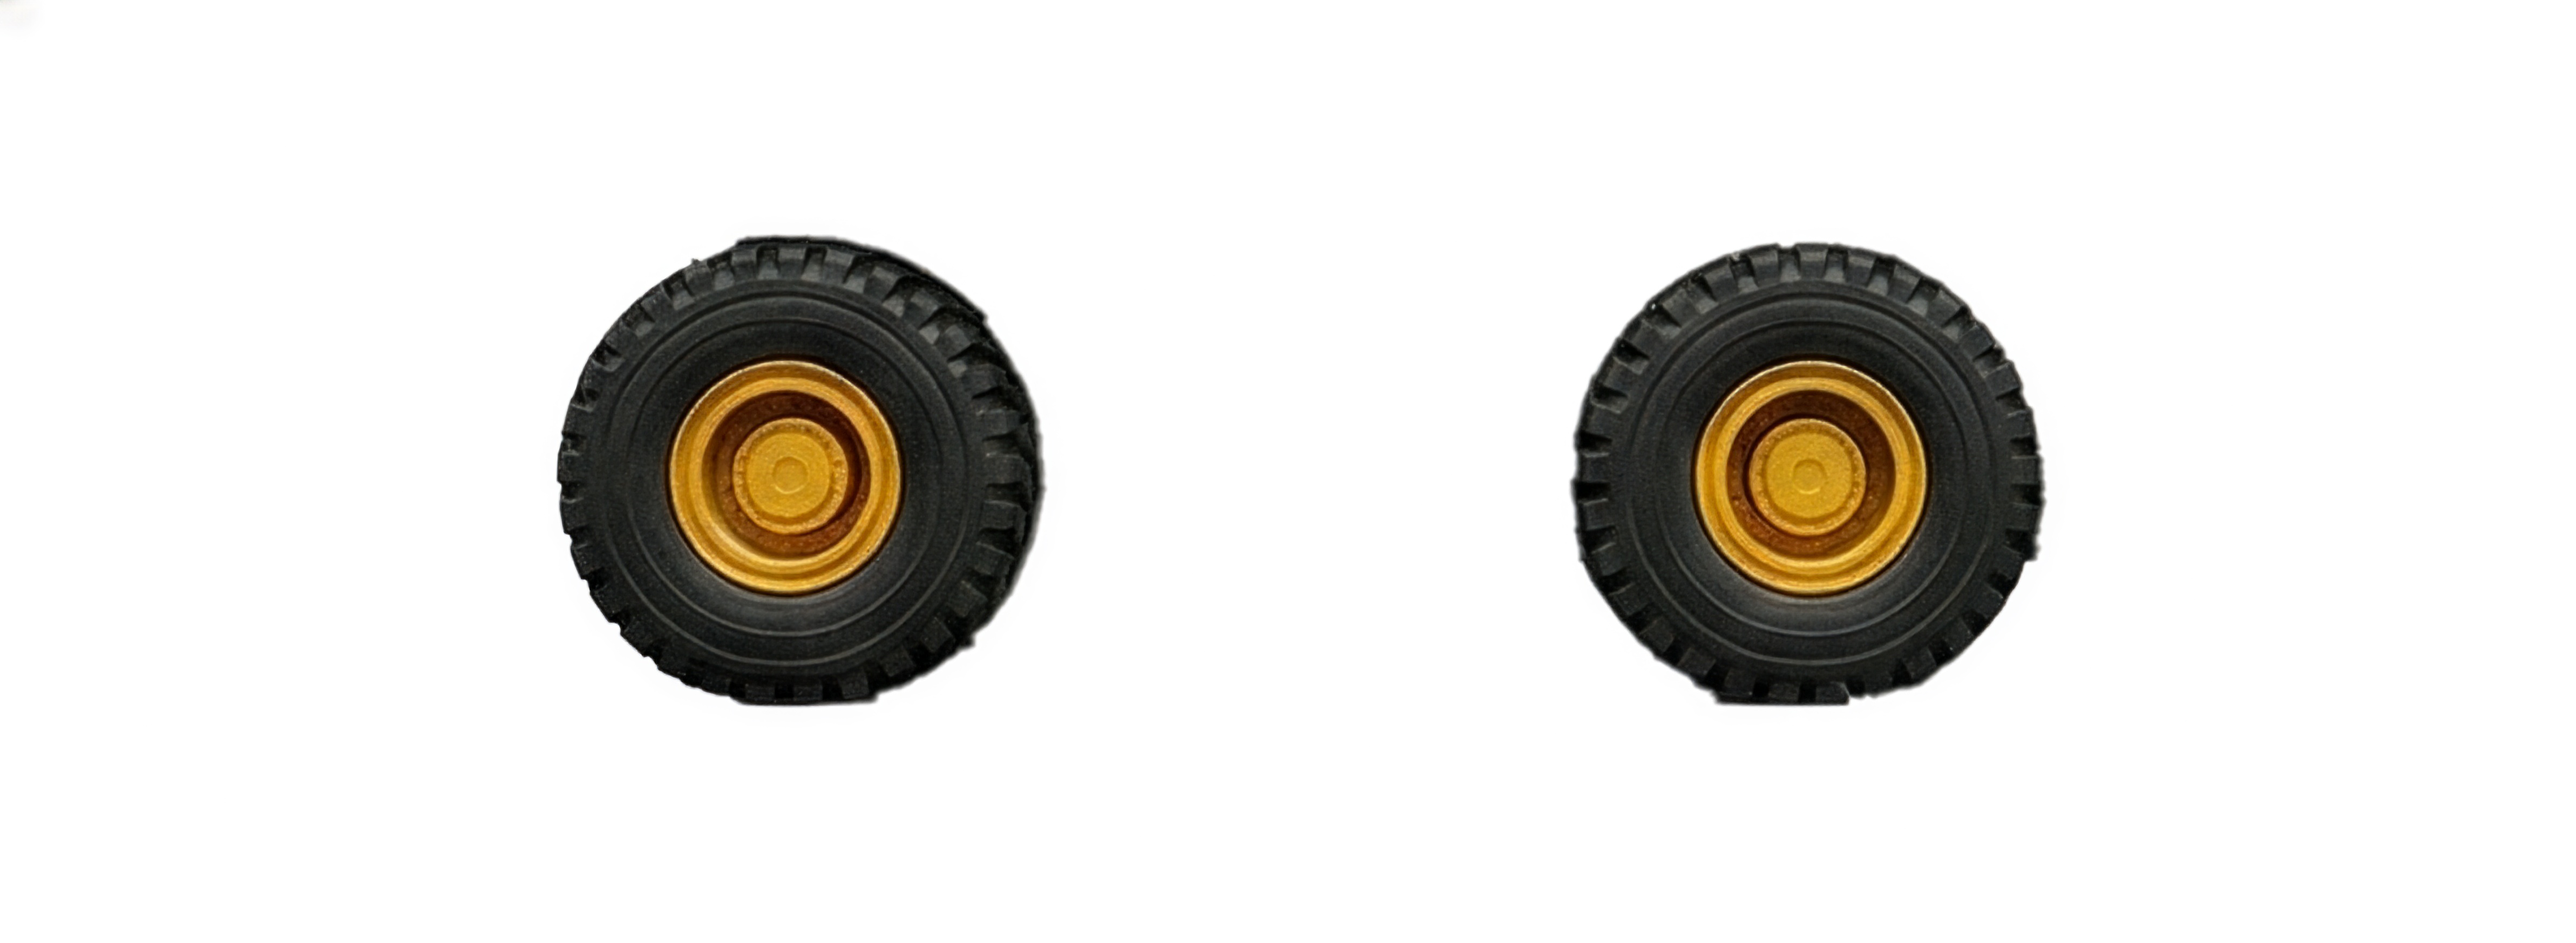
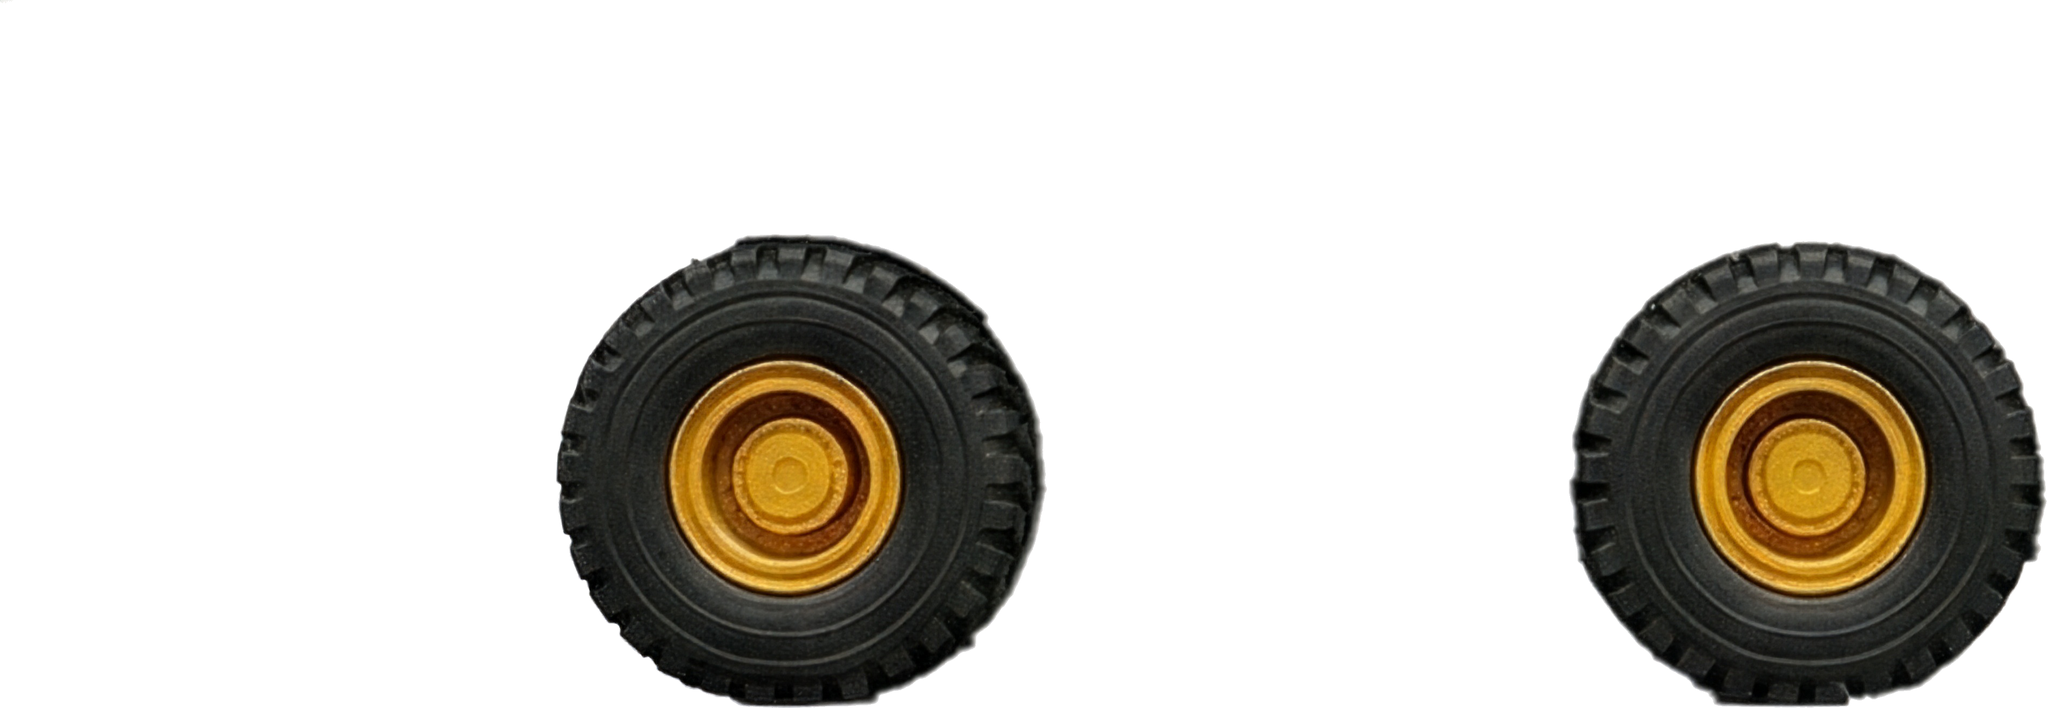
Clean shift-neo assets and adjust scaling

diff --git a/shift-neo/js/Config.js b/shift-neo/js/Config.js
@@ -5,7 +5,7 @@ export const Config = {
     gravity: 12,
     truckSpeed: 1.5,
     truckFriction: 0.92,
-    truckScale: 0.6,
+    truckScale: 0.38,
     truckMaxSpeed: 25,
     truckTilt: 0.15,
     wheelSpinRate: 0.02,
@@ -15,8 +15,8 @@ export const Config = {
     parallax: {
         tunnel: 0.12
     },
-    partScale: 0.55,
-    hazardScale: 0.42,
+    partScale: 0.5,
+    hazardScale: 0.35,
     hazardBackdropColor: 0xff2f01,
     hazardBackdropRadius: 0.38,
     ambient: {

diff --git a/shift-neo/js/Main.js b/shift-neo/js/Main.js
@@ -50,8 +50,8 @@ const CALL_OUTS = [
 ];
 
 const WHEEL_LAYOUT = [
-    { center: { x: 223, y: 318 }, size: 170 },
-    { center: { x: 845, y: 314 }, size: 190 }
+    { center: { x: 980, y: 1350 }, size: 520 },
+    { center: { x: 3780, y: 1350 }, size: 520 }
 ];
 
 const inputState = { left: false, right: false, pointerActive: false, pointerX: null };
